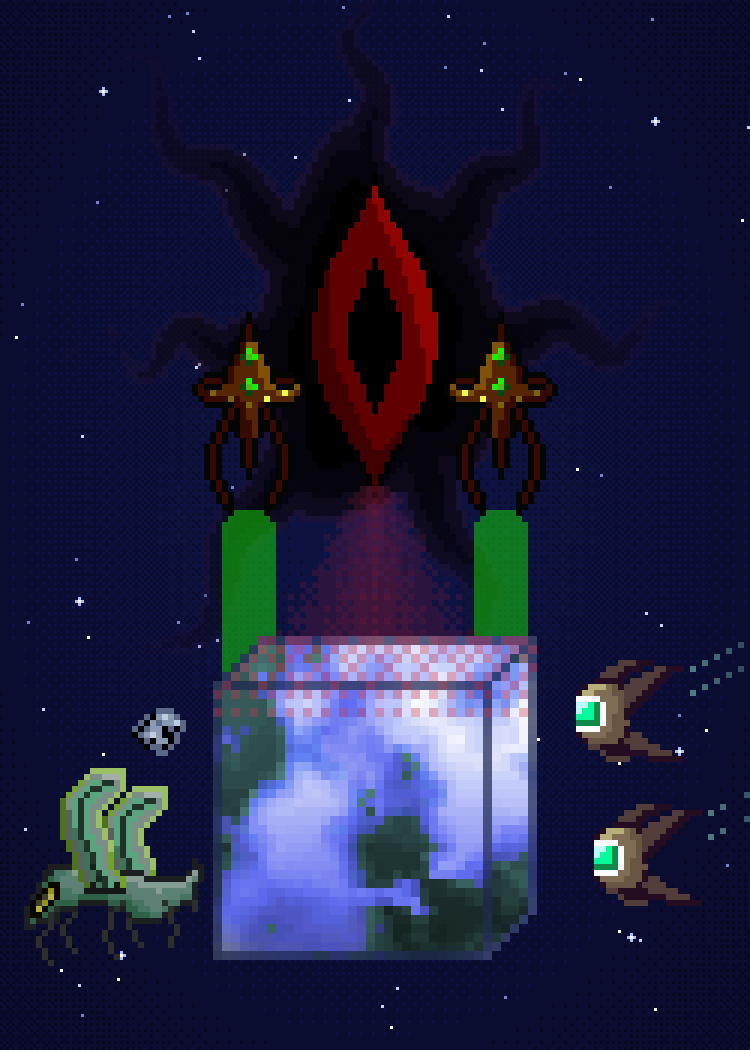
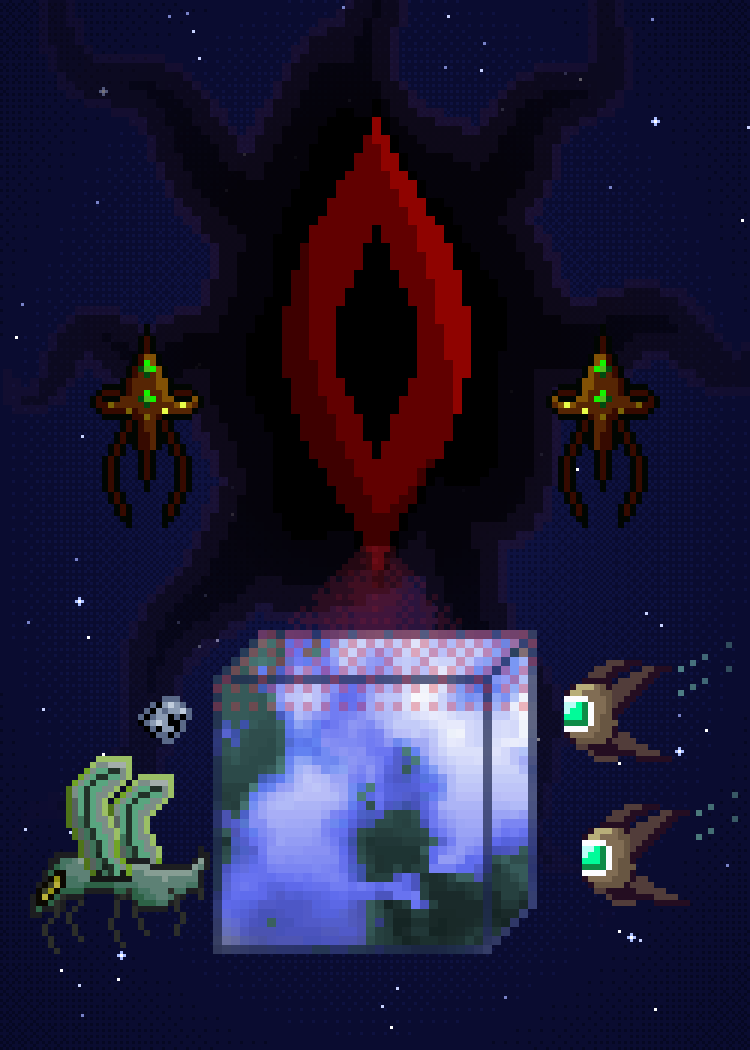
Runde 6: dritte Überarbeitung (Zwischenstand)
Claude-Session: https://claude.ai/code/session_01TEnvTzH2xD44R6Unjv7vDo

diff --git a/data/sleeve-proposals/runde6/generator/s16_rift_over_earth.py b/data/sleeve-proposals/runde6/generator/s16_rift_over_earth.py
@@ -56,9 +56,9 @@ for _ in range(80):
 for (x, y) in [(34, 30), (218, 40), (26, 200), (226, 250), (40, 318), (210, 312)]:
     for dx, dy in ((0, 0), (1, 0), (-1, 0), (0, 1), (0, -1)): cv.px(x + dx, y + dy, (170, 190, 255) if (dx or dy) else (255, 255, 255))
 
-# ---------- 2×: Argos-Körper, nach außen zunehmend transparent (Alpha je ganzem 2×-Pixel) ----------
-AXc, AYc = 62.5, 55                                    # Augenmitte im 2×-Raster (250er: x125, y110)
-ox, oy = int(AXc - REX), int(AYc - REY)
+# ---------- 3×: Argos-Körper, nach außen zunehmend transparent (Alpha je ganzem 3×-Pixel) ----------
+AG = 3
+ox, oy = -12, -44                                      # Referenz im 3×-Raster: Augenmitte bei 250er x124/y112
 for j in range(ref.shape[0]):
     for i in range(ref.shape[1]):
         a0 = ref[j, i, 3] / 255
@@ -67,17 +67,18 @@ for j in range(ref.shape[0]):
         fade = 1.0 if d < 20 else max(0.0, 1 - (d - 20) / 52) ** 1.2
         a_ = a0 * fade
         if a_ < 0.04: continue
-        X_, Y_ = (ox + i) * 2, (oy + j) * 2
+        X_, Y_ = (ox + i) * AG + 1, (oy + j) * AG     # +1: Augenmitte exakt auf x 125 (750er: 375)
         if not (0 <= X_ < 250 and 0 <= Y_ < 350): continue
-        blk = cv.a[Y_:Y_ + 2, X_:X_ + 2].astype(float)
-        cv.a[Y_:Y_ + 2, X_:X_ + 2] = (blk * (1 - a_) + ref[j, i, :3] * a_).astype(np.uint8)
+        blk = cv.a[Y_:Y_ + AG, X_:X_ + AG].astype(float)
+        cv.a[Y_:Y_ + AG, X_:X_ + AG] = (blk * (1 - a_) + ref[j, i, :3] * a_).astype(np.uint8)
+EYE_BOTTOM = (oy + 106) * AG                           # 250er y186
 
-# ---------- 2×: Blickkegel, Kreaturen, Strahlen ----------
+# ---------- 2×: Blickkegel und Kreaturen (ohne Suchstrahlen) ----------
 p2 = rgba(125, 175)
 CS = 3                                                 # Würfel 3× (108×108), Vordergrund
-CXp, CYp = 125 - 54, 212                               # Würfel im 250er-Raster: x71–179, y212–320
-ecx = AXc
-y0, y1 = int(AYc + 26), CYp // 2 + 2
+CXp, CYp = 125 - 54, 210                               # Würfel im 250er-Raster: x71–179, y210–318
+ecx = 62.5
+y0, y1 = EYE_BOTTOM // 2 - 2, CYp // 2 + 2
 for y in range(y0, y1):
     t = (y - y0) / max(1, y1 - y0)
     half = 4 + 16 * t
@@ -87,26 +88,23 @@ for y in range(y0, y1):
         if lv:
             c = tuple(int(v) for v in cv.a[y * 2, x * 2])
             p2[y, x] = list(mix(c, (160, 26, 48), (0, 0.2, 0.34, 0.46)[min(3, lv)])) + [255]
-S_L, S_R = (32, 52), (74, 52)                          # Life-Searcher über den oberen Würfelecken
-put(p2, search, *S_L); put(p2, flip(search), *S_R)
+put(p2, search, 15, 54); put(p2, flip(search), 125 - 15 - 19, 54)   # zwei Life-Searcher links/rechts des Auges
 def trail(x, y, dx, dy, n=8):
     for k in range(1, n):
         px_, py_ = x + dx * k, y + dy * k
         if 0 <= px_ < 125 and 0 <= py_ < 175 and p2[py_, px_, 3] == 0 and bayer(px_, py_) * n < n + 1 - k:
             p2[py_, px_] = list(mix(tuple(int(v) for v in cv.a[py_ * 2, px_ * 2]), (140, 230, 200), 0.55 - k * 0.05)) + [255]
-for (x, y) in [(96, 110), (99, 134)]:                  # zwei Analyzer rechts, fliegen zum Würfel
+for (x, y) in [(94, 110), (97, 134)]:                  # zwei Analyzer rechts, fliegen zum Würfel
     trail(x + 17, y + 2, 2, -1); trail(x + 17, y + 6, 2, -1)
     put(p2, flip(anal), x, y)
-put(p2, gath, 4, 128); put(p2, rock, 22, 118)           # Gatherer links unten mit Asteroid
+put(p2, gath, 5, 126); put(p2, rock, 23, 116)           # Gatherer links unten mit Asteroid
 blit(cv, p2, 2)
-for (sx, sy) in (S_L, S_R):
-    cv.paste(up(beam, 2), (sx + 5) * 2, (sy + 33) * 2, alpha=0.45)
 
-# ---------- 3×: Erdwürfel (vorn, größer), oben rot angestrahlt ----------
+# ---------- 3×: Erdwürfel (vorn), oben rot angestrahlt ----------
 c3 = cube.copy()
 for y in range(10):
     for x in range(36):
         if c3[y, x, 3] and bayer(x, y) < 0.55 - y * 0.05:
             c3[y, x, :3] = mix(tuple(int(v) for v in c3[y, x, :3]), (210, 50, 70), 0.35)
-cv.paste(up(c3, CS), CXp, CYp)                        # Strahlen enden auf der Würfeloberfläche
+cv.paste(up(c3, CS), CXp, CYp)
 print(save(cv, '16_rift_over_earth.png'))
